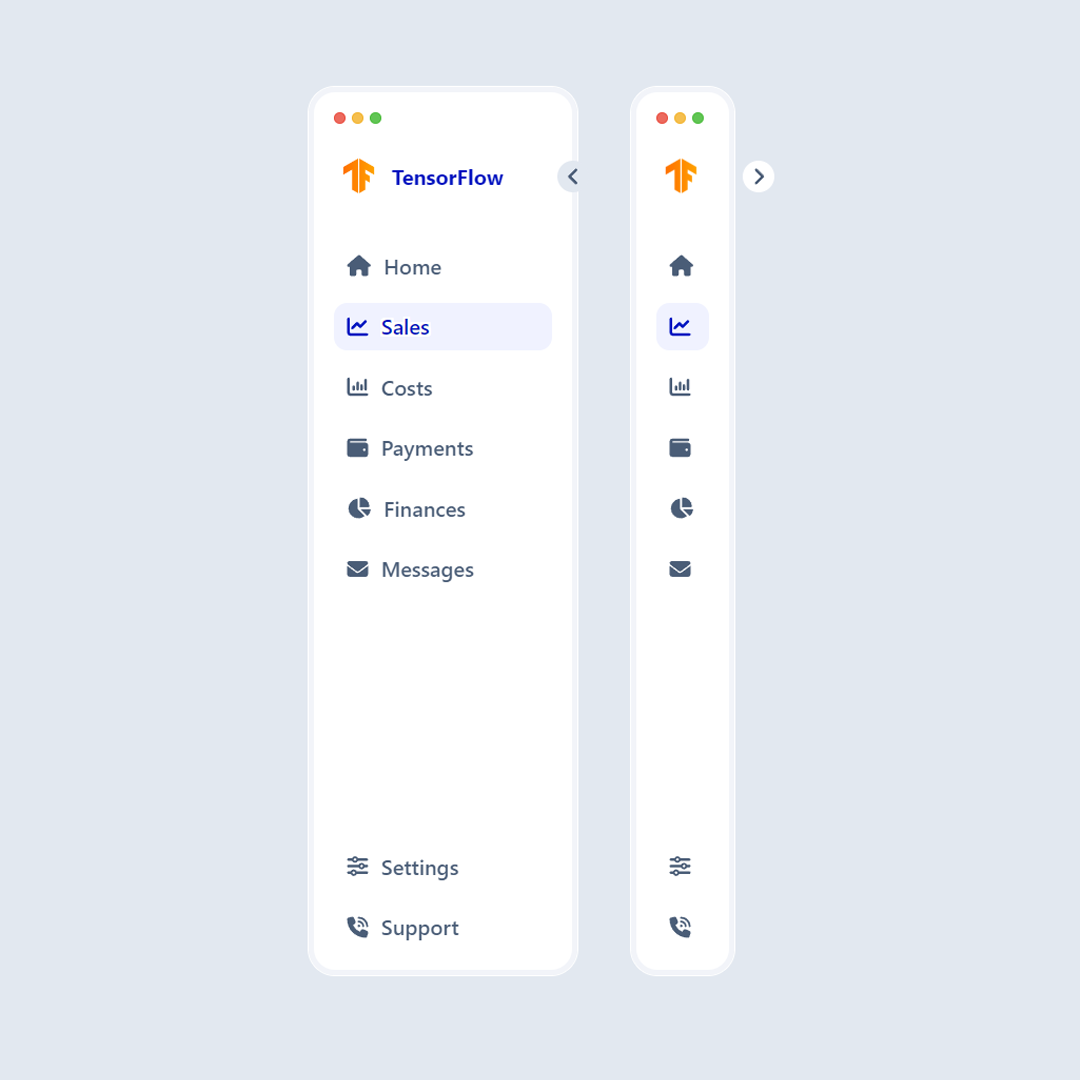
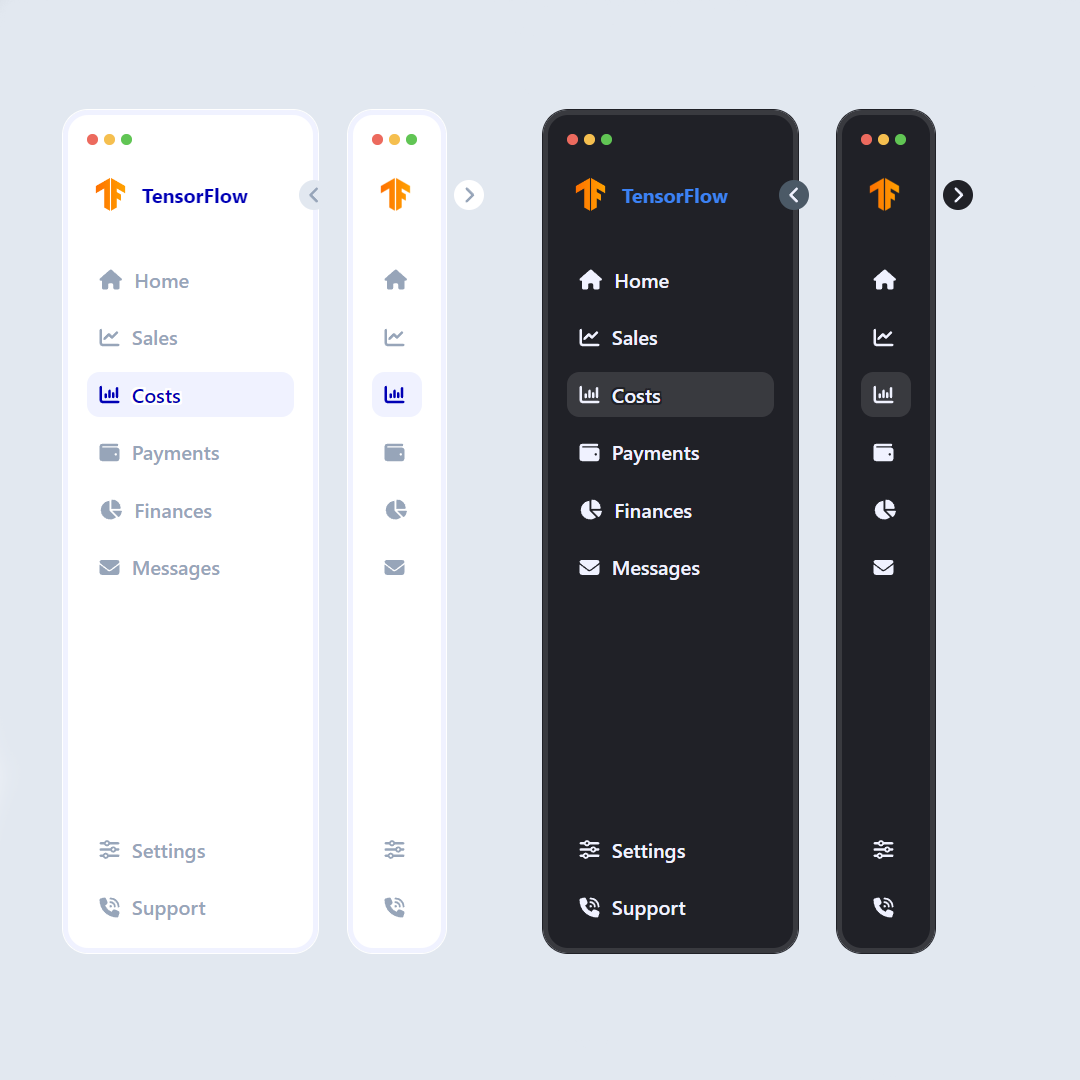
Made styled-components code more concise, updated image in Readme file

diff --git a/src/components/Sidebar/Sidebar.jsx b/src/components/Sidebar/Sidebar.jsx
@@ -47,112 +47,65 @@ const Sidebar = (props) => {
   };
 
   const SidebarContainer = styled.div`
-    background-color: ${themeColor === "dark"
-      ? "var(--color-sidebar-background-dark-default)"
-      : "var(--color-sidebar-background-light-default)"};
-    border: 4px solid
-      ${themeColor === "dark"
-        ? "var(--color-sidebar-background-dark-active)"
-        : "var(--color-sidebar-background-light-active)"};
-    outline: 1px solid
-      ${themeColor === "dark"
-        ? "var(--color-sidebar-background-dark-default)"
-        : "var(--color-sidebar-background-light-default)"};
+    background-color: var(--color-sidebar-background-${themeColor}-default);
+    border: 4px solid var(--color-sidebar-background-${themeColor}-active);
+    outline: 1px solid var(--color-sidebar-background-${themeColor}-default);
 
     &:not(.opened) .sidebar-toggler {
-      background-color: ${themeColor === "dark"
-        ? "var(--color-button-background-dark-default)"
-        : "var(--color-button-background-light-default)"};
+      background-color: var(--color-button-background-${themeColor}-default);
     }
   `;
 
   const SidebarToggler = styled.div`
-    background-color: ${themeColor === "dark"
-      ? "var(--color-button-background-dark-active)"
-      : "var(--color-button-background-light-active)"};
-
-    color: ${themeColor === "dark"
-      ? "var(--color-text-dark-default)"
-      : "var(--color-text-light-default)"};
+    background-color: var(--color-button-background-${themeColor}-active);
+    color: var(--color-text-${themeColor}-default);
 
     &:hover .sidebar-toggler__icon {
-      color: ${themeColor === "dark"
-        ? "var(--color-text-dark-hover)"
-        : "var(--color-text-light-hover)"};
+      color: var(--color-text-${themeColor}-hover);
     }
   `;
 
   const Logo = styled.div`
     .logo__title {
-      color: ${themeColor === "dark"
-        ? "var(--color-text-logo-dark-default)"
-        : "var(--color-text-logo-light-default)"};
+      color: var(--color-text-logo-${themeColor}-default);
     }
   `;
 
   const Route = styled.div`
+    background-color: var(--color-sidebar-background-${themeColor}-default);
     .route__icon {
-      color: ${themeColor === "dark"
-        ? "var(--color-text-dark-default)"
-        : "var(--color-text-light-default)"};
+      color: var(--color-text-${themeColor}-default);
     }
-
     .route__title {
-      color: ${themeColor === "dark"
-        ? "var(--color-text-dark-default)"
-        : "var(--color-text-light-default)"};
+      color: var(--color-text-${themeColor}-default);
     }
 
     &:hover {
-      background-color: ${themeColor === "dark"
-        ? "var(--color-sidebar-background-dark-hover)"
-        : "var(--color-sidebar-background-light-hover)"};
-
+      background-color: var(--color-sidebar-background-${themeColor}-hover);
       .route__icon {
-        color: ${themeColor === "dark"
-          ? "var(--color-text-dark-hover)"
-          : "var(--color-text-light-hover)"};
+        color: var(--color-text-${themeColor}-hover);
       }
       .route__title {
-        color: ${themeColor === "dark"
-          ? "var(--color-text-dark-hover)"
-          : "var(--color-text-light-hover)"};
+        color: var(--color-text-${themeColor}-hover);
       }
     }
 
     &.active {
-      background-color: ${themeColor === "dark"
-        ? "var(--color-sidebar-background-dark-active)"
-        : "var(--color-sidebar-background-light-active)"};
+      background-color: var(--color-sidebar-background-${themeColor}-active);
       .route__icon {
-        color: ${themeColor === "dark"
-          ? "var(--color-text-dark-active)"
-          : "var(--color-text-light-active)"};
+        color: var(--color-text-${themeColor}-active);
       }
       .route__title {
-        color: ${themeColor === "dark"
-          ? "var(--color-text-dark-active)"
-          : "var(--color-text-light-active)"};
+        color: var(--color-text-${themeColor}-active);
         text-shadow: 1.5px 1.5px 0
-            var(
-              --color-sidebar-background-${themeColor === "dark" ? "dark" : "light"}-default
-            ),
-          -1.5px 1.5px 0 var(--color-sidebar-background-${themeColor === "dark" ? "dark" : "light"}-default),
-          1.5px -1.5px 0 var(--color-sidebar-background-${themeColor === "dark" ? "dark" : "light"}-default),
-          -1.5px -1.5px 0
-            var(
-              --color-sidebar-background-${themeColor === "dark" ? "dark" : "light"}-default
-            ),
-          1.5px 0 0
-            var(
-              --color-sidebar-background-${themeColor === "dark" ? "dark" : "light"}-default
-            ),
-          -1.5px 0 0 var(--color-sidebar-background-${themeColor === "dark" ? "dark" : "light"}-default),
-          0 1.5px 0
-            var(
-              --color-sidebar-background-${themeColor === "dark" ? "dark" : "light"}-default
-            ),
-          0 -1.5px 0 var(--color-sidebar-background-${themeColor === "dark" ? "dark" : "light"}-default);
+            var(--color-sidebar-background-${themeColor}-default),
+          -1.5px 1.5px 0 var(--color-sidebar-background-${themeColor}-default),
+          1.5px -1.5px 0 var(--color-sidebar-background-${themeColor}-default),
+          -1.5px -1.5px 0 var(--color-sidebar-background-${themeColor}-default),
+          1.5px 0 0 var(--color-sidebar-background-${themeColor}-default),
+          -1.5px 0 0 var(--color-sidebar-background-${themeColor}-default),
+          0 1.5px 0 var(--color-sidebar-background-${themeColor}-default),
+          0 -1.5px 0 var(--color-sidebar-background-${themeColor}-default);
       }
     }
   `;
@@ -202,7 +155,9 @@ const Sidebar = (props) => {
           </Route>
         ))}
       </div>
-      <button className="toggle-theme" onClick={toggleTheme}>Сменить тему</button>
+      <button className="toggle-theme" onClick={toggleTheme}>
+        Сменить тему
+      </button>
     </SidebarContainer>
   );
 };
